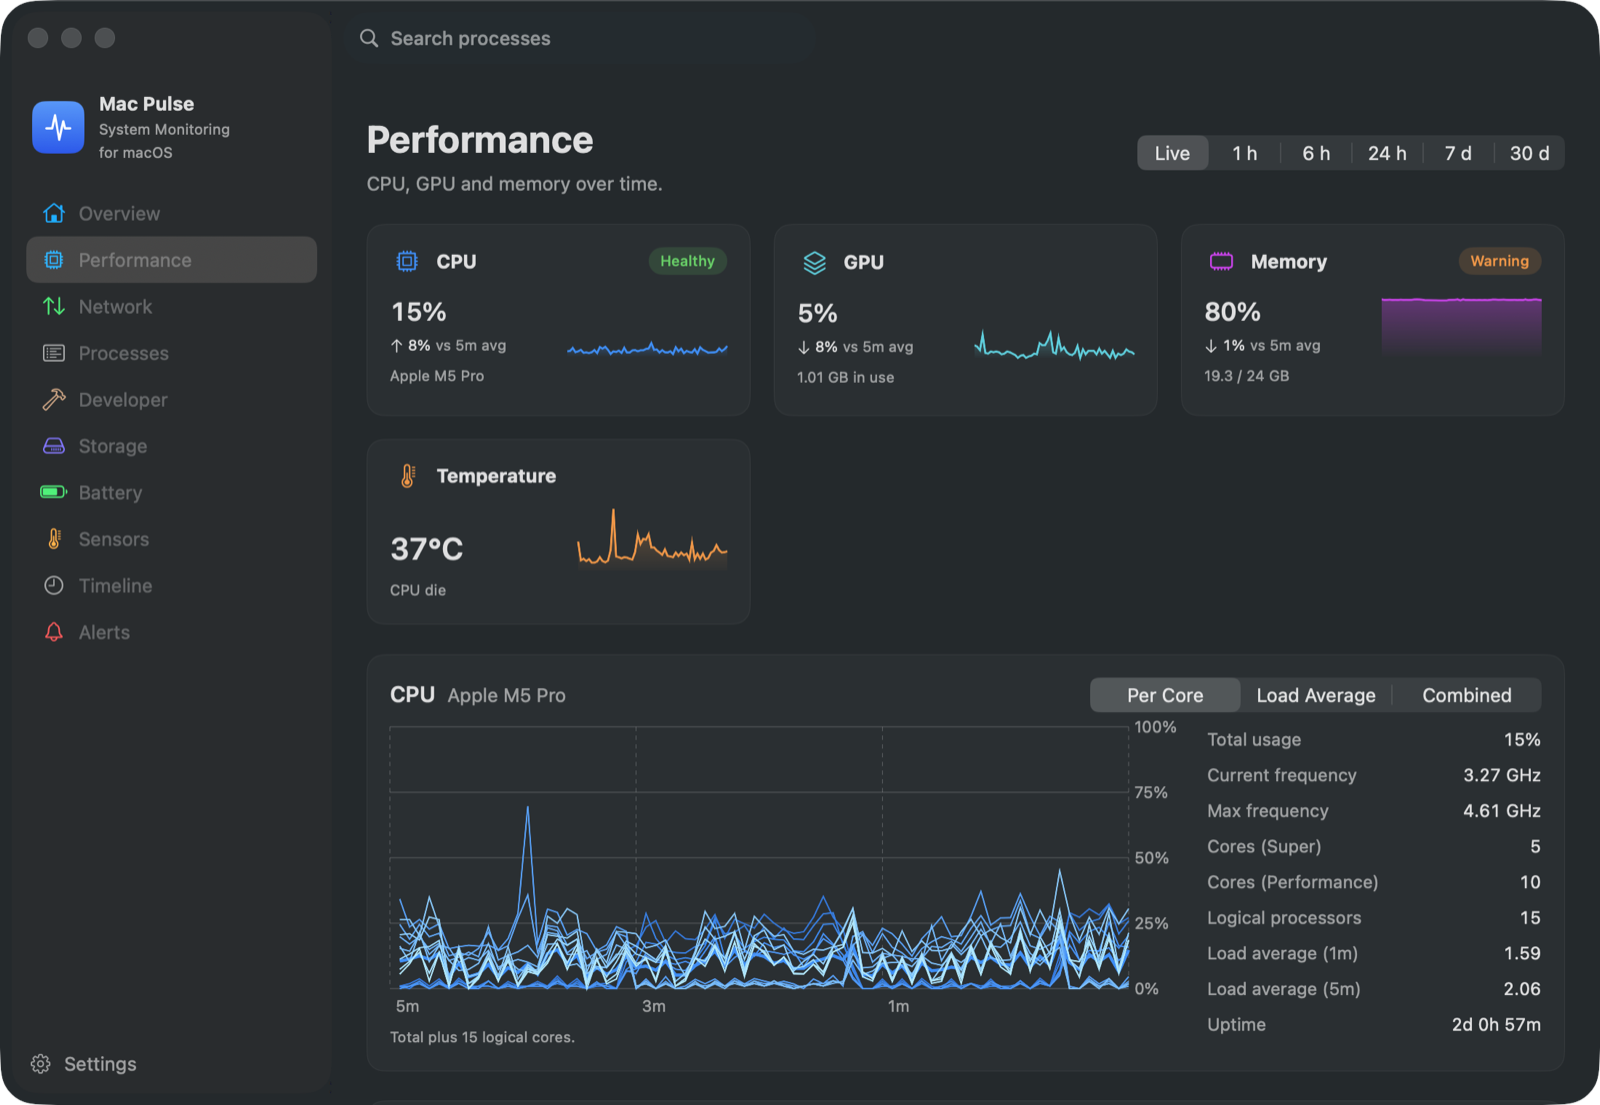
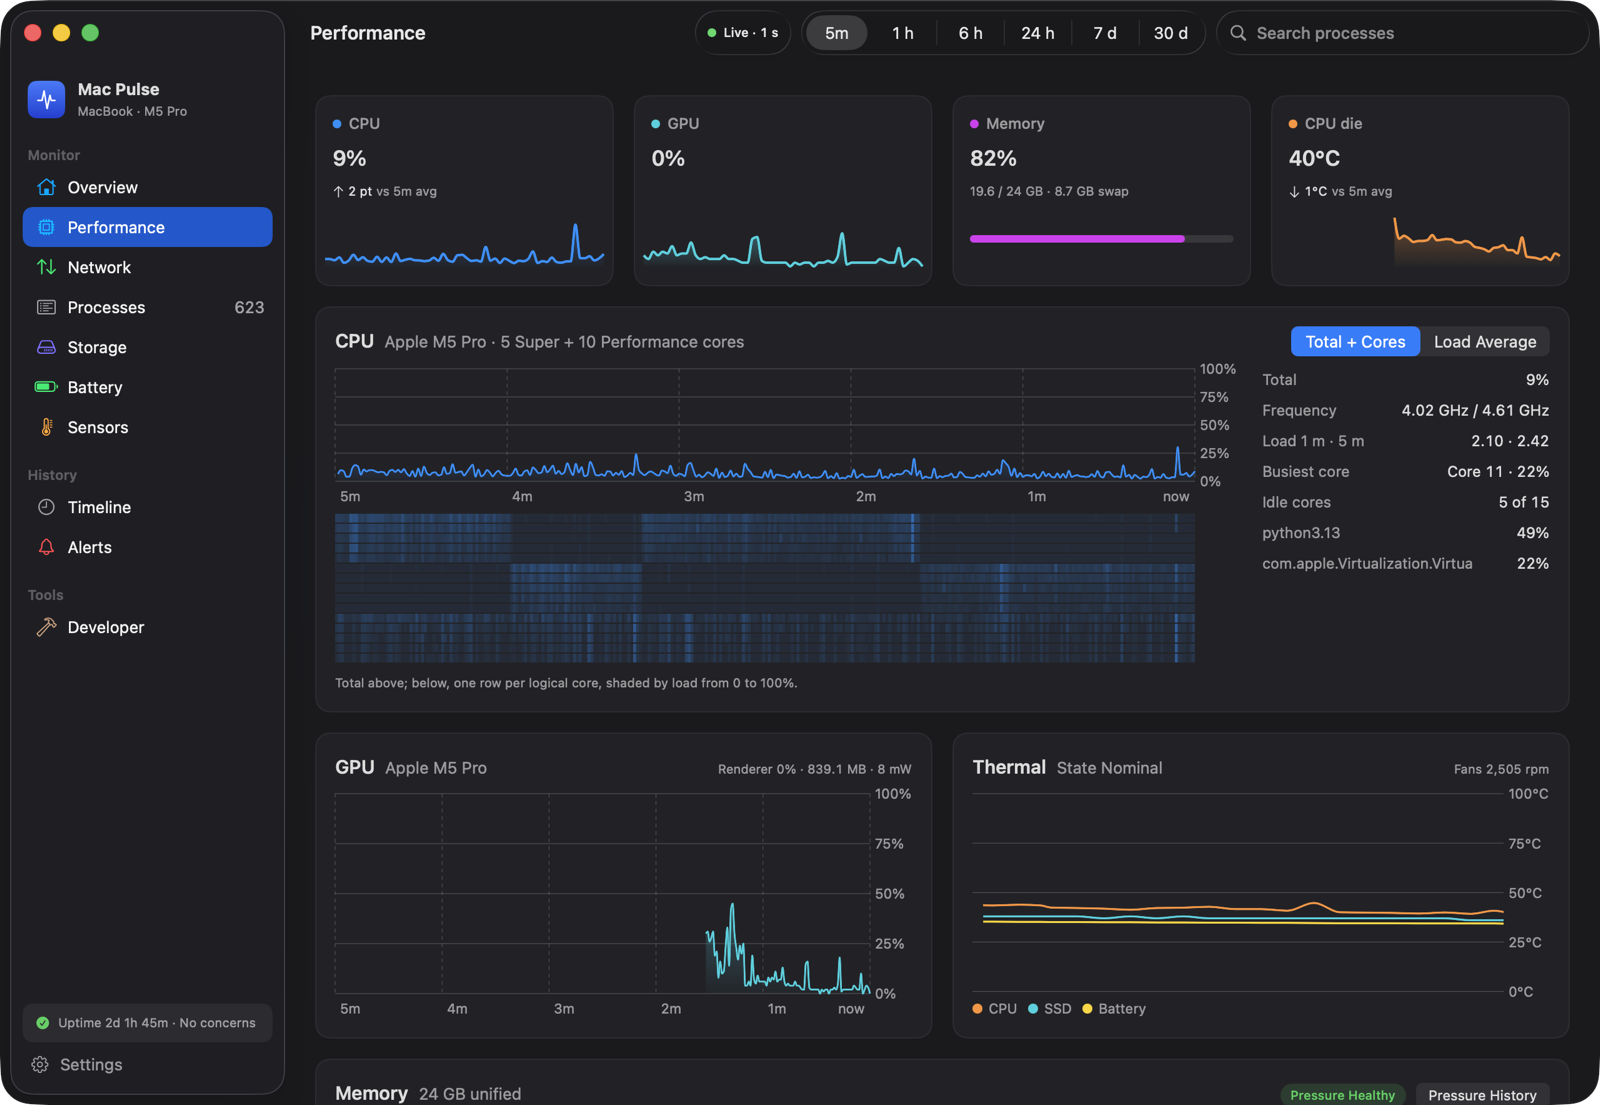
Refresh README screenshots for the redesigned app
Replaces the popover, menu bar, Overview and Performance shots with the
current design and adds Network, Timeline, Processes, Developer, Sensors,
Battery and Alerts. Captured from the Mac Pulse windows only, in dark
mode, and scaled to the existing 1600 px width.

diff --git a/README.md b/README.md
@@ -4,7 +4,7 @@ A macOS menu-bar system monitor that answers one question the built-in tools do 
 
 [![CI](https://github.com/ohmrefresh/mac-pulse/actions/workflows/ci.yml/badge.svg)](https://github.com/ohmrefresh/mac-pulse/actions/workflows/ci.yml)
 
-<img src="docs/screenshots/popover.png" alt="The Mac Pulse popover showing CPU, memory, network, battery and temperature rows, each with a sparkline and a health badge, above a list of the top processes by CPU" width="426">
+<img src="docs/screenshots/popover.png" alt="The Mac Pulse popover: CPU, memory, network, battery and thermal rows, each with a sparkline or bar and a Healthy badge, above the top processes by CPU" width="426">
 
 Activity Monitor shows the present instant. Mac Pulse keeps history, marks when things changed, and offers deterministic diagnostics — so you can get from "my Mac feels wrong" to a specific, checkable cause.
 
@@ -14,7 +14,7 @@ It works at three levels, and you can stop at whichever one answers your questio
 
 **Menu bar.** An always-visible status item with up to eight segments you pick in Settings — CPU, memory, network throughput, internet latency, battery, thermal state, CPU temperature and GPU. No sparklines, no colour; it is meant to be read at a glance and otherwise ignored.
 
-![The Mac Pulse menu bar item reading CPU 7%, MEM 80%, download 1.9K, upload 0K, 8ms latency and 35 degrees Celsius](docs/screenshots/menu-bar.png)
+![The Mac Pulse menu bar item reading download 13K, upload 353K, 7 ms latency and 44 degrees Celsius](docs/screenshots/menu-bar.png)
 
 **Popover.** One click gives you CPU, memory, network and temperature — plus battery on Macs that have one — each with a recent sparkline and a Health Level badge, followed by the Top Processes by CPU.
 
@@ -32,17 +32,37 @@ Causes are offered as likely or possible — suggestions, not certainties. A val
 
 ## Screenshots
 
-### Dashboard — Overview
+### Overview
 
-Leads with the one thing that needs attention, then the cards.
+CPU, Memory and Network lead as cards; disk, battery and thermal follow as tiles, then the top processes beside recent activity. When something needs attention, a banner above them says what.
 
-![The Mac Pulse Overview page, headed by a warning that memory pressure is at Warning, with cards for CPU, memory, network, disk, battery and temperature, plus internet health and recent activity](docs/screenshots/dashboard.png)
+![The Mac Pulse Overview page with CPU, Memory and Network cards marked Healthy, tiles for the startup disk, battery and thermal readings, the top processes by memory and recent activity](docs/screenshots/dashboard.png)
 
 ### Performance
 
-CPU per core, load average or combined, with GPU, memory and temperature alongside. CPU frequency and GPU power are read through IOReport.
+A tile per metric, then total CPU over a per-core heatmap, GPU and Thermal charts. CPU frequency and GPU power are read through IOReport.
 
-![The Mac Pulse Performance page showing CPU, GPU, memory and temperature cards above a per-core CPU chart with fifteen lines, and a rail listing total usage, current and maximum frequency, core counts, load averages and uptime](docs/screenshots/performance.png)
+![The Mac Pulse Performance page: CPU, GPU, Memory and CPU die tiles above a five-minute CPU chart with a per-core heatmap, a rail of frequency, load and busiest core, and GPU and Thermal charts](docs/screenshots/performance.png)
+
+### Network
+
+Connection, latency, packet loss and traffic, a mirrored throughput chart, latency banded by your own thresholds, and the path from gateway to each internet target.
+
+![The Mac Pulse Network page: a connected Wi-Fi strip with latency, loss and transferred figures, a mirrored download and upload chart, a latency chart and a path card for gateway, DNS resolver and two internet targets](docs/screenshots/network.png)
+
+### Timeline
+
+Every change is a Timeline Event; a warning and its recovery are one row that says how long it lasted.
+
+![The Mac Pulse Timeline filtered to Memory over the last 24 hours: an event strip, and rows such as "Memory pressure → Warning · back to normal at 21:12" with "Lasted 1 m 17 s"](docs/screenshots/timeline.png)
+
+### Processes, Developer, Sensors, Battery and Alerts
+
+| | |
+| --- | --- |
+| ![The Processes table with CPU and memory bars, user and running time](docs/screenshots/processes.png) | ![The Developer page with runtime tiles, running containers and listening ports marked by reachability](docs/screenshots/developer.png) |
+| ![The Sensors page with the thermal state banner, temperature cards, a temperature chart, every sensor's range since launch and fans](docs/screenshots/sensors.png) | ![The Battery page with charge, time remaining, a 24-hour charge chart, health and accessories](docs/screenshots/battery.png) |
+| ![The Alerts page listing rules by area with what fires them, severity and when each last fired](docs/screenshots/alerts.png) | |
 
 ## Requirements
 
